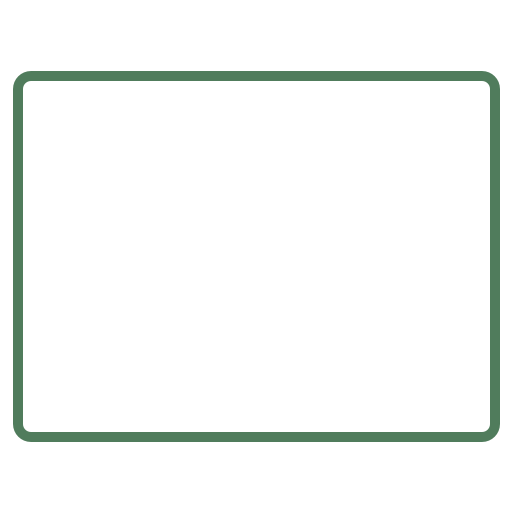
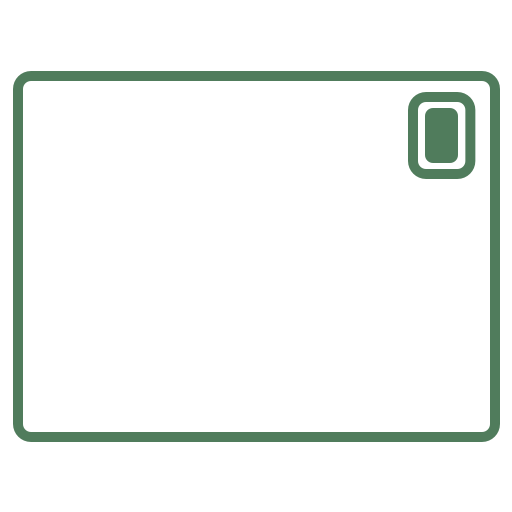
envelope modal

Changed region(s): [[0.7812, 0.1562, 0.9375, 0.375]]

diff --git a/kumo/hello.html b/kumo/hello.html
@@ -33,8 +33,31 @@
         </div>  
         <div class="modal-body">
             <div id="writeOridomi">
-                <img src="media/papers.png" alt="" style="width:75%; height:100%;">
+                <img src="media/papers.png" alt="" style="width:75%; height:75%;">
                 <textarea class="writeOridomiText" style="width:66%; height:75%; left: 5%; top: 5%; position: absolute;"></textarea>
+            </div>
+        </div>
+        <div class="modal-footer">
+            <button type="button" class="btn btn-default" data-dismiss="modal" data-toggle="modal" data-target="#envelopeModal">Address</button>
+        </div>
+      </div>
+    </div>
+  </div>
+    
+  <!-- Envelope Modal -->
+  <div class="modal fade" id="envelopeModal" role="dialog">
+    <div class="modal-dialog">
+      <!-- Modal content-->
+      <div class="modal-content">
+        <div class="modal-header">
+          <button type="button" class="close" data-dismiss="modal">&times;</button>
+        </div>  
+        <div class="modal-body">
+            <div id="envelopeOridomi">
+                <img src="media/envelope_front.png" alt="" style="width:75%; height:75%;">
+                <p style="width:66%; height:75%; left: 5%; top: 5%; position: absolute;">To: \nFrom: </p>
+                <input type="text" id="to">
+                <input type="text" id="subject">
             </div>
         </div>
         <div class="modal-footer">
